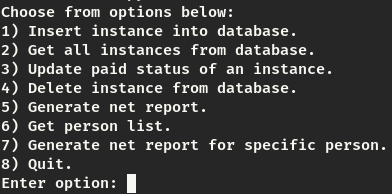
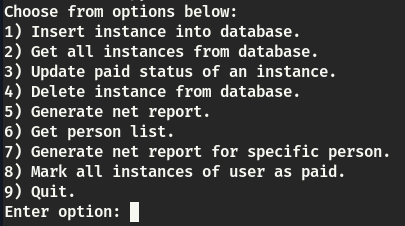
Feature: Updated all unpaid instances of user
- Given a user, toggle all unpaid instances to 1. Option 8.
- Shifted exit to option 9.
- Updated README with the description of the new feature.
- Updated menu image.

Changed region(s): [[0.0, 0.0, 0.9796, 1.0]]

diff --git a/Finance.py b/Finance.py
@@ -25,6 +25,7 @@ def insertMoney(name, amount, reason, date_t=date.today(), paid=0):
         c.execute("INSERT INTO Money (pid, amount, reason, date, paid) VALUES (?, ?, ?, ?, ?)",
                   (pid, amount, reason, date_t.__str__(), paid))
 
+# Update
 def updatePaid(items):
     with con:
         for item in items:
@@ -34,6 +35,11 @@ def updatePaid(items):
                 c.execute("UPDATE Money SET paid=1 WHERE id=?", (item,))
             else:
                 c.execute("UPDATE Money SET paid=0 WHERE id=?", (item,))
+
+def updateAll(name):
+    pid = getPersonId(name)
+    with con:
+        c.execute("UPDATE Money SET paid=1 WHERE pid=?", (pid,))
 
 # Delete
 def deleteMoneyInstance(items):
@@ -82,7 +88,8 @@ while(1):
           "5) Generate net report.",
           "6) Get person list.",
           "7) Generate net report for specific person.",
-          "8) Quit.", sep='\n')
+          "8) Mark all instances of user as paid.",
+          "9) Quit.", sep='\n')
     option = int(input("Enter option: "))
 
     if option == 1:
@@ -158,6 +165,10 @@ while(1):
             print("ERROR: Too many/few inputs")
             print("--------------------------")
             continue
+        if getPersonId(Uinput[0]) is None:
+            print("ERROR: User does not exist!")
+            print("--------------------------")
+            continue
         if num_inputs == 1:
             for x in getMoneyReportForPerson(Uinput[0]):
                 print("%4d | %10s | %7.2f | %-50s" % x)
@@ -168,6 +179,18 @@ while(1):
         continue
 
     elif option == 8:
+        Uinput = input("Format: name\n   --> ")
+        if getPersonId(Uinput) is None:
+            print("ERROR: User does not exist!")
+            print("--------------------------")
+            continue
+        updateAll(Uinput)
+        print("-------------------------------------")
+        print("Successfully updated instances for %s!" % Uinput)
+        print("-------------------------------------")
+        continue
+
+    elif option == 9:
         print("-------")
         print("Exiting")
         print("-------")
